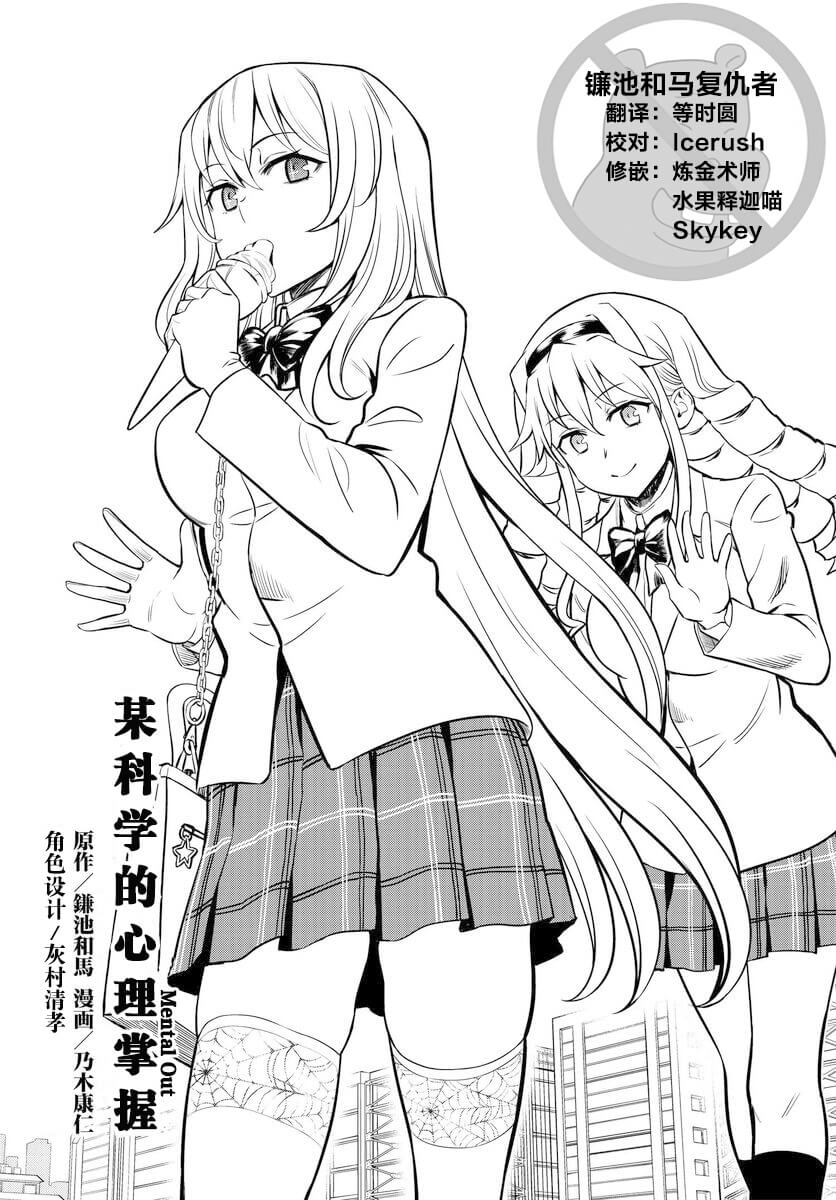
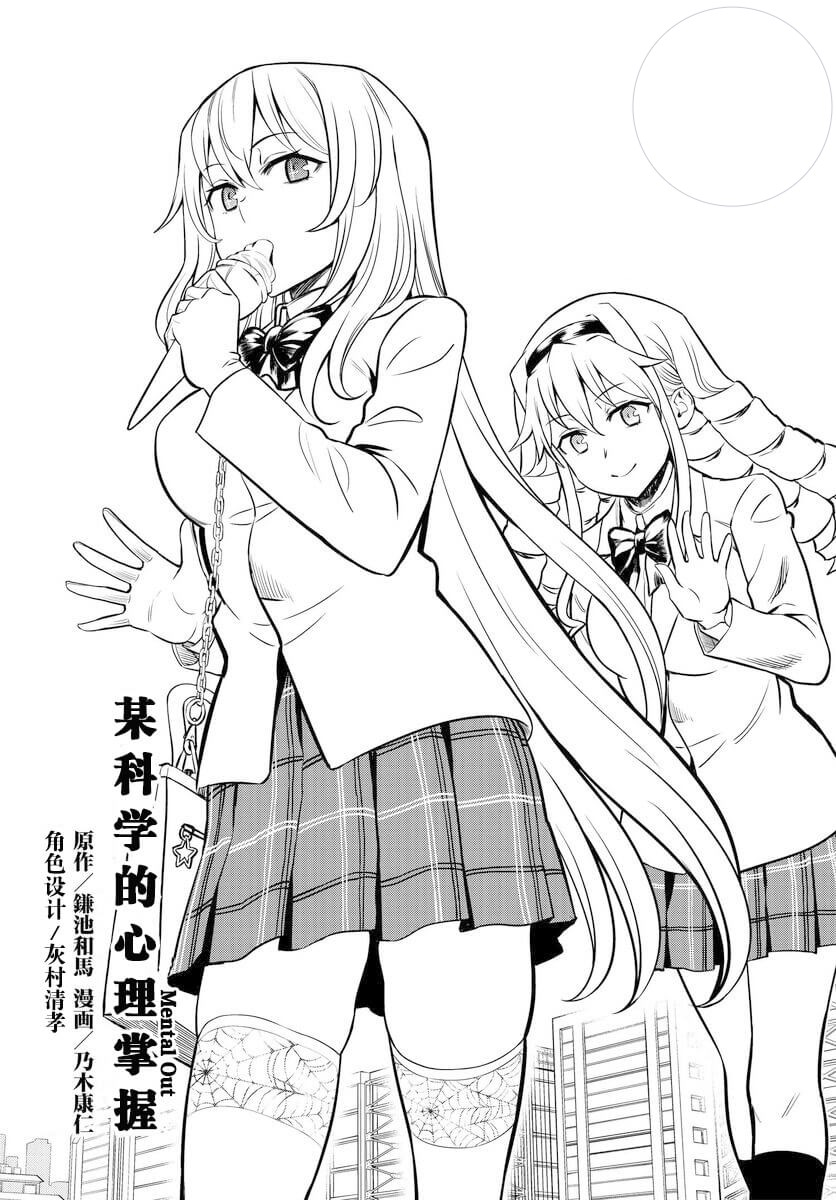
fix: cover image

Changed region(s): [[0.622, 0.0, 0.9952, 0.2467]]

diff --git a/README.md b/README.md
@@ -5,5 +5,3 @@
 由某树状图的汉化组汉化并发布
 
 ![](https://cnindex.github.io/Mental-Out/images/cover1.jpg)
-
-![](https://cnindex.github.io/Mental-Out/images/cover2.jpg)
